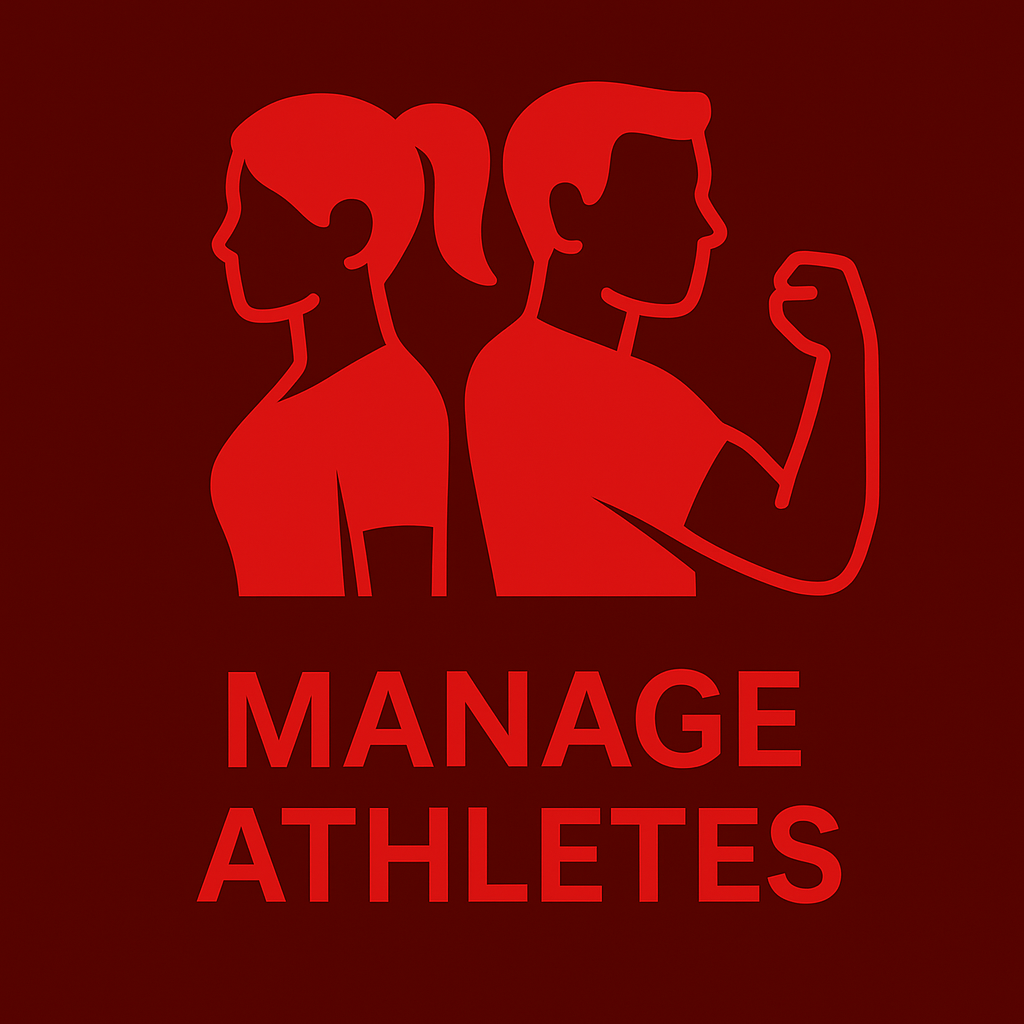
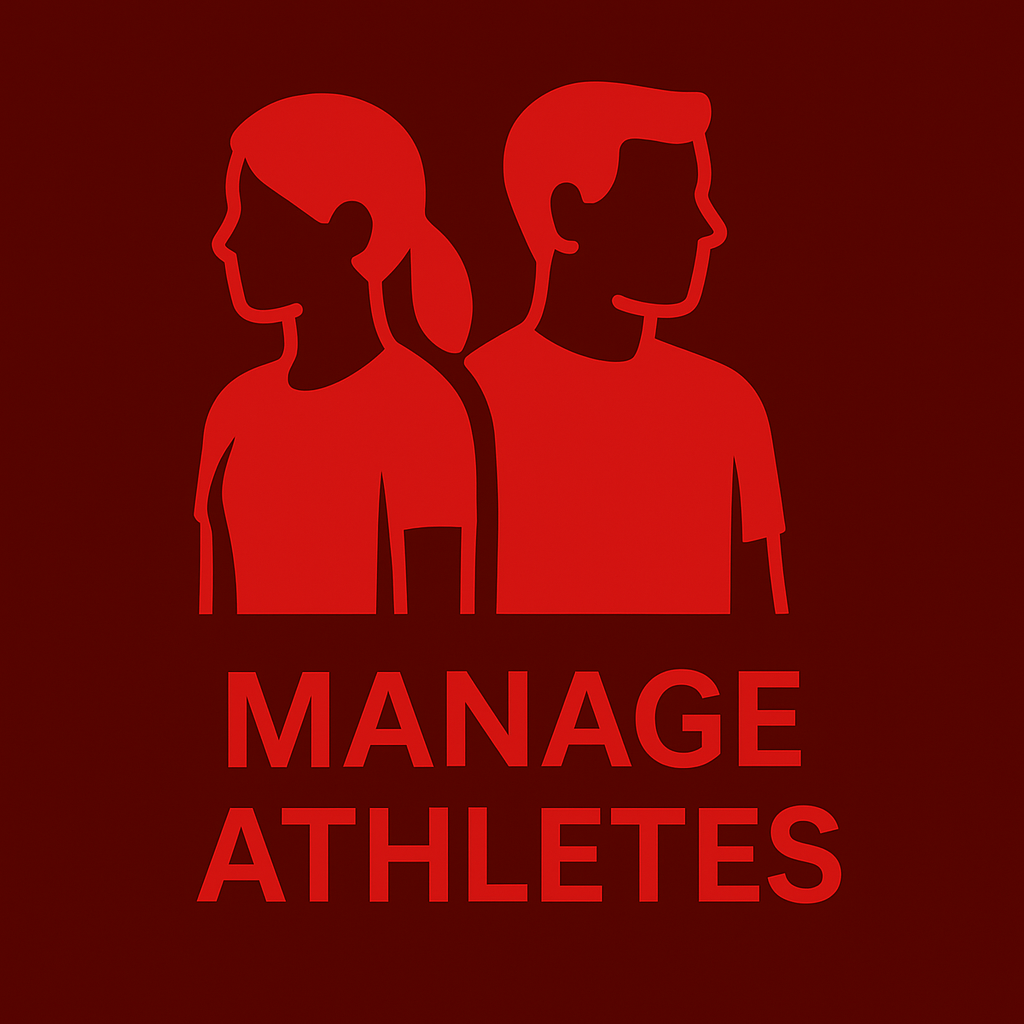
feat: Redesign progress buttons and update manage athletes image
- Changed progress buttons from rounded pills to sharp black rectangles
- Added hover effect to show metrics (numbers) on hover
- Removed morphing animation in favor of simple hover display
- Updated manage athletes image to preferred version with athlete silhouettes

🤖 Generated with [Claude Code](https://claude.com/claude-code)

Changed region(s): [[0.1875, 0.0938, 0.875, 0.625], [0.5938, 0.125, 0.6875, 0.1875], [0.2812, 0.1875, 0.375, 0.2188]]

diff --git a/components/athlete/AthleteProgress.tsx b/components/athlete/AthleteProgress.tsx
@@ -1,6 +1,6 @@
 'use client'
 
-import { useState, useEffect, useRef } from 'react'
+import { useState, useEffect } from 'react'
 import { useAuth } from '@/hooks/use-auth'
 import { CheckCircle, RefreshCw, Calendar, MapPin, Clock, X } from 'lucide-react'
 import { doc, getDoc, collection, query, where, getDocs, Timestamp } from 'firebase/firestore'
@@ -23,22 +23,8 @@ export default function AthleteProgress() {
     upcomingEvents: 0
   })
   const [loading, setLoading] = useState(true)
-  const [active, setActive] = useState<null | 'complete' | 'progress' | 'upcoming'>(null)
   const [showEventsModal, setShowEventsModal] = useState(false)
   const [events, setEvents] = useState<Event[]>([])
-  const revertTimer = useRef<ReturnType<typeof setTimeout> | null>(null)
-
-  const triggerMorph = (key: 'complete' | 'progress' | 'upcoming') => {
-    if (revertTimer.current) clearTimeout(revertTimer.current)
-    setActive(key)
-    revertTimer.current = setTimeout(() => setActive(null), 5000)
-  }
-
-  useEffect(() => {
-    return () => {
-      if (revertTimer.current) clearTimeout(revertTimer.current)
-    }
-  }, [])
 
   useEffect(() => {
     const loadProgress = async () => {
@@ -107,63 +93,57 @@ export default function AthleteProgress() {
         Your Progress
       </h2>
 
-      {/* Clean minimal button row */}
-      <div className="relative">
-        <div className="flex flex-wrap gap-3">
-          {/* Trainings Complete */}
-          <button
-            type="button"
-            aria-pressed={active === 'complete'}
-            onClick={() => triggerMorph('complete')}
-            onKeyDown={(e) => (e.key === 'Enter' || e.key === ' ') && triggerMorph('complete')}
-            className={`transition-all duration-300 ease-out rounded-full px-4 py-2.5 flex items-center gap-2.5 focus:outline-none focus:ring-2 focus:ring-black/20 ${active === 'complete' ? 'bg-black text-white shadow-lg scale-105' : 'bg-white text-black border-2 border-black hover:bg-gray-50'}`}
-          >
-            <CheckCircle className="w-5 h-5" strokeWidth={2.5} />
-            <span className="text-sm font-bold" style={{ fontFamily: '"Open Sans", sans-serif' }}>
-              {active === 'complete' ? `${stats.trainingsComplete} Complete` : 'Training Complete'}
-            </span>
-          </button>
+      {/* Sharp rectangle button row */}
+      <div className="flex flex-wrap gap-3">
+        {/* Trainings Complete */}
+        <button
+          type="button"
+          className="group relative bg-black text-white px-5 py-3 flex items-center gap-2.5 transition-all hover:bg-gray-800 focus:outline-none focus:ring-2 focus:ring-black/50"
+          style={{ fontFamily: '"Open Sans", sans-serif' }}
+        >
+          <CheckCircle className="w-5 h-5" strokeWidth={2.5} />
+          <span className="text-sm font-bold group-hover:hidden">
+            Training Complete
+          </span>
+          <span className="text-sm font-bold hidden group-hover:inline">
+            {stats.trainingsComplete} Complete
+          </span>
+        </button>
 
-          {/* Trainings In Progress */}
-          <button
-            type="button"
-            aria-pressed={active === 'progress'}
-            onClick={() => triggerMorph('progress')}
-            onKeyDown={(e) => (e.key === 'Enter' || e.key === ' ') && triggerMorph('progress')}
-            className={`transition-all duration-300 ease-out rounded-full px-4 py-2.5 flex items-center gap-2.5 focus:outline-none focus:ring-2 focus:ring-black/20 ${active === 'progress' ? 'bg-black text-white shadow-lg scale-105' : 'bg-white text-black border-2 border-black hover:bg-gray-50'}`}
-          >
-            <RefreshCw className="w-5 h-5" strokeWidth={2.5} />
-            <span className="text-sm font-bold" style={{ fontFamily: '"Open Sans", sans-serif' }}>
-              {active === 'progress' ? `${stats.trainingsInProgress} In Progress` : 'Trainings in Progress'}
-            </span>
-          </button>
+        {/* Trainings In Progress */}
+        <button
+          type="button"
+          className="group relative bg-black text-white px-5 py-3 flex items-center gap-2.5 transition-all hover:bg-gray-800 focus:outline-none focus:ring-2 focus:ring-black/50"
+          style={{ fontFamily: '"Open Sans", sans-serif' }}
+        >
+          <RefreshCw className="w-5 h-5" strokeWidth={2.5} />
+          <span className="text-sm font-bold group-hover:hidden">
+            Trainings in Progress
+          </span>
+          <span className="text-sm font-bold hidden group-hover:inline">
+            {stats.trainingsInProgress} In Progress
+          </span>
+        </button>
 
-          {/* Upcoming Event */}
-          <button
-            type="button"
-            aria-pressed={active === 'upcoming'}
-            onClick={() => {
-              triggerMorph('upcoming')
-              if (stats.upcomingEvents > 0) {
-                setShowEventsModal(true)
-              }
-            }}
-            onKeyDown={(e) => {
-              if (e.key === 'Enter' || e.key === ' ') {
-                triggerMorph('upcoming')
-                if (stats.upcomingEvents > 0) {
-                  setShowEventsModal(true)
-                }
-              }
-            }}
-            className={`transition-all duration-300 ease-out rounded-full px-4 py-2.5 flex items-center gap-2.5 focus:outline-none focus:ring-2 focus:ring-black/20 ${active === 'upcoming' ? 'bg-black text-white shadow-lg scale-105' : 'bg-white text-black border-2 border-black hover:bg-gray-50'}`}
-          >
-            <Calendar className="w-5 h-5" strokeWidth={2.5} />
-            <span className="text-sm font-bold" style={{ fontFamily: '"Open Sans", sans-serif' }}>
-              {active === 'upcoming' ? `${stats.upcomingEvents} Upcoming` : 'Upcoming Event'}
-            </span>
-          </button>
-        </div>
+        {/* Upcoming Event */}
+        <button
+          type="button"
+          onClick={() => {
+            if (stats.upcomingEvents > 0) {
+              setShowEventsModal(true)
+            }
+          }}
+          className="group relative bg-black text-white px-5 py-3 flex items-center gap-2.5 transition-all hover:bg-gray-800 focus:outline-none focus:ring-2 focus:ring-black/50"
+          style={{ fontFamily: '"Open Sans", sans-serif' }}
+        >
+          <Calendar className="w-5 h-5" strokeWidth={2.5} />
+          <span className="text-sm font-bold group-hover:hidden">
+            Upcoming Event
+          </span>
+          <span className="text-sm font-bold hidden group-hover:inline">
+            {stats.upcomingEvents} Upcoming
+          </span>
+        </button>
       </div>
 
       {/* Events Modal */}
@@ -279,4 +259,3 @@ export default function AthleteProgress() {
     </div>
   )
 }
-
